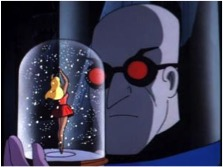
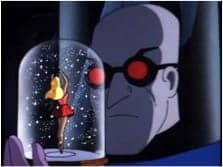
image optimization

diff --git a/index.html b/index.html
@@ -6,4 +6,15 @@ Home</a></li><li class="nav-item"><a class="nav-link" href="tableofcontents.html
 Contents</a></li><li class="nav-item"><a class="nav-link" href="contributors.html"><svg viewBox="0 0 1792 1792" xmlns="http://www.w3.org/2000/svg"><path d="M491 1536l91-91-235-235-91 91v107h128v128h107zm523-928q0-22-22-22-10 0-17 7l-542 542q-7 7-7 17 0 22 22 22 10 0 17-7l542-542q7-7 7-17zm-54-192l416 416-832 832h-416v-416zm683 96q0 53-37 90l-166 166-416-416 166-165q36-38 90-38 53 0 91 38l235 234q37 39 37 91z"/></svg>
 Contributors</a></li><li class="nav-item"><a class="nav-link" href="archive/2016edition/index.html"><svg viewBox="0 0 1792 1792" xmlns="http://www.w3.org/2000/svg"><path d="M1717 931q0-35-53-35h-1088q-40 0-85.5 21.5t-71.5 52.5l-294 363q-18 24-18 40 0 35 53 35h1088q40 0 86-22t71-53l294-363q18-22 18-39zm-1141-163h768v-160q0-40-28-68t-68-28h-576q-40 0-68-28t-28-68v-64q0-40-28-68t-68-28h-320q-40 0-68 28t-28 68v853l256-315q44-53 116-87.5t140-34.5zm1269 163q0 62-46 120l-295 363q-43 53-116 87.5t-140 34.5h-1088q-92 0-158-66t-66-158v-960q0-92 66-158t158-66h320q92 0 158 66t66 158v32h544q92 0 158 66t66 158v160h192q54 0 99 24.5t67 70.5q15 32 15 68z"/></svg>
 Archives</a></li><li class="nav-item"><a class="nav-link" href="about.html"><svg viewBox="0 0 1792 1792" xmlns="http://www.w3.org/2000/svg"><path d="M1216 832q0-185-131.5-316.5t-316.5-131.5-316.5 131.5-131.5 316.5 131.5 316.5 316.5 131.5 316.5-131.5 131.5-316.5zm512 832q0 52-38 90t-90 38q-54 0-90-38l-343-342q-179 124-399 124-143 0-273.5-55.5t-225-150-150-225-55.5-273.5 55.5-273.5 150-225 225-150 273.5-55.5 273.5 55.5 225 150 150 225 55.5 273.5q0 220-124 399l343 343q37 37 37 90z"/></svg>
-About</a></li></ul></nav></header><main><div class="archive"><div class="archive-item"><div><a class="archive-item__link" href="/2017/04/17/hello-world/"><span class="archive-item__link__time" datetime="2017-04-18T01:01:50.000Z">2017-04-17</span><span class="archive-item__link__title">The Truth Is Out There</span></a></div></div></div></main><div class="footer"><div class="logo1"></div><div class="logo2"></div></div></body></html>
+About</a></li></ul></nav></header><main><div class="page-content"><h2 id="Vengeance-The-Night-and-Batman-High-Art-In-Comics-and-Cartoons"><a href="#Vengeance-The-Night-and-Batman-High-Art-In-Comics-and-Cartoons" class="headerlink" title="Vengeance, The Night, and Batman: High Art In Comics and Cartoons"></a>Vengeance, The Night, and Batman: High Art In Comics and Cartoons</h2><p><em>Albert Mancao</em><br>  <a href="vengeancethenightandbatmanhighartincomicsandcartoons.html">Vengeance, The Night, and Batman: High Art In Comics and Cartoons</a></p>
+<h2 id="Dear-Prejudice"><a href="#Dear-Prejudice" class="headerlink" title="Dear Prejudice"></a>Dear Prejudice</h2><p><em>Trinh Nguyen</em><br><a href="dearprejudice.html">Dear Prejudice</a></p>
+<h2 id="Depressive-Ways"><a href="#Depressive-Ways" class="headerlink" title="Depressive Ways"></a>Depressive Ways</h2><p><em>Clara Cribb</em><br><a href="depressiveways.html">Depressive Ways</a></p>
+<h2 id="Understanding-Our-Era-of-Intolerance"><a href="#Understanding-Our-Era-of-Intolerance" class="headerlink" title="Understanding Our Era of Intolerance"></a>Understanding Our Era of Intolerance</h2><p><em>Sabah Halim</em><br><a href="understandingoureraofintolerance.html">Understanding Our Era of Intolerance</a></p>
+<h2 id="Rhonda"><a href="#Rhonda" class="headerlink" title="Rhonda"></a>Rhonda</h2><p><em>Sam Lyons</em><br><a href="rhonda.html">Rhonda</a></p>
+<h2 id="Smells-like-Home"><a href="#Smells-like-Home" class="headerlink" title="Smells like Home"></a>Smells like Home</h2><p><em>Aisha Bilal</em><br><a href="smellslikehome.html">Smells like Home</a></p>
+<h2 id="That-Perfect-Girl-is-Gone-A-Look-at-Disney-Female’s-Evolution"><a href="#That-Perfect-Girl-is-Gone-A-Look-at-Disney-Female’s-Evolution" class="headerlink" title="That Perfect Girl is Gone: A Look at Disney Female’s Evolution"></a>That Perfect Girl is Gone: A Look at Disney Female’s Evolution</h2><p><em>John Patouhas</em><br><a href="thatperfectgirlisgonealookatdisneyfemalesevolution.html">That Perfect Girl is Gone: A Look at Disney Female’s Evolution</a></p>
+<h2 id="Ulysses-in-Hell"><a href="#Ulysses-in-Hell" class="headerlink" title="Ulysses in Hell"></a>Ulysses in Hell</h2><p><em>Kathrine Christy</em><br><a href="ulyssesinhell.html">Ulysses in Hell</a></p>
+<h2 id="Winter"><a href="#Winter" class="headerlink" title="Winter"></a>Winter</h2><p><em>Breanna Ransome</em><br><a href="winter.html">Winter</a></p>
+<h2 id="The-Cave"><a href="#The-Cave" class="headerlink" title="The Cave"></a>The Cave</h2><p><em>Samantha Procida</em><br><a href="thecave.html">The Cave</a></p>
+<h2 id="Audio-Essay"><a href="#Audio-Essay" class="headerlink" title="Audio Essay"></a>Audio Essay</h2><p><em>Ruby Murrani</em><br><a href="audioessay.html">Audio Essay</a></p>
+</div></main><div class="footer"><div class="logo1"></div><div class="logo2"></div></div></body></html>
